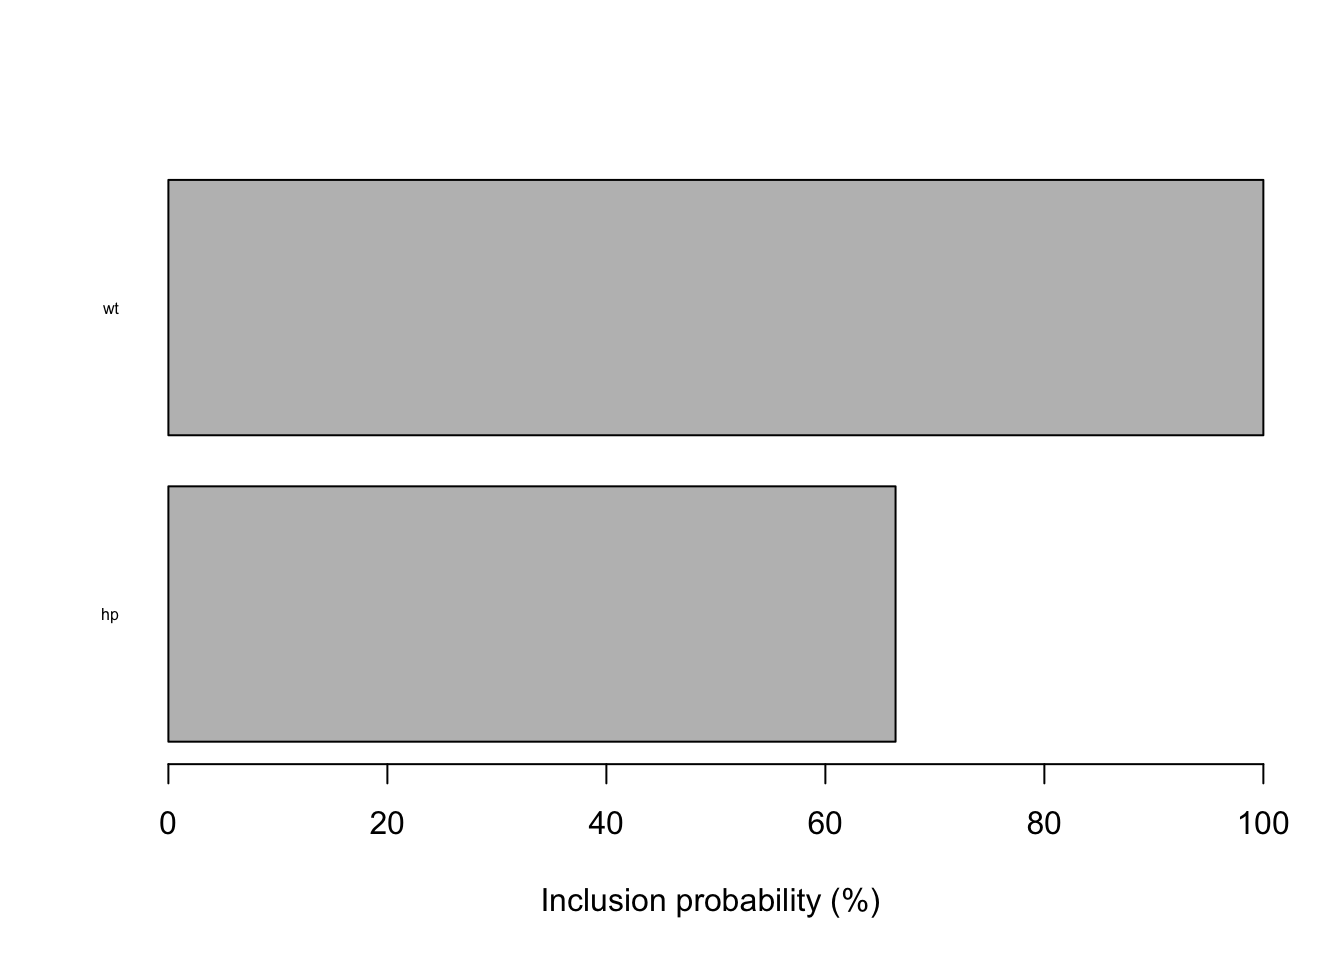
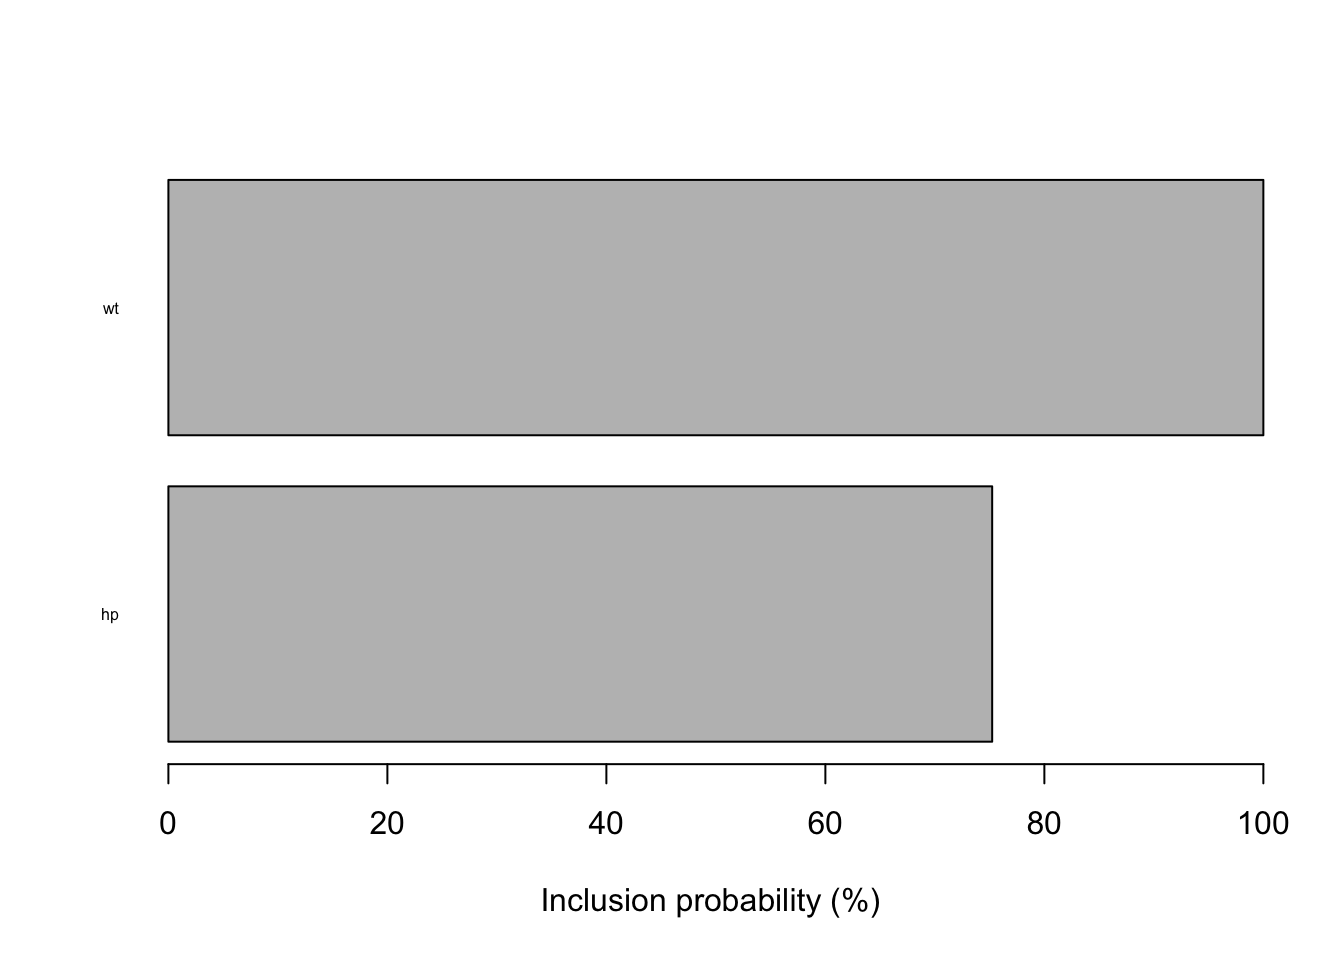
Add util functions into website

Changed region(s): [[0.6562, 0.5, 0.75, 0.7812]]

diff --git a/docs/articles/quickstart.html b/docs/articles/quickstart.html
@@ -131,22 +131,22 @@ mea_session &lt;-<span class="st"> </span><span class="dv">17</span>:<span class
 <p>If you hope to see details of those anomalies:</p>
 <div class="sourceCode"><pre class="sourceCode r"><code class="sourceCode r"><span class="kw"><a href="../reference/summarise_anomaly.html">summarise_anomaly</a></span>(.cbar, <span class="dt">.session =</span> <span class="st">"measurement"</span>)</code></pre></div>
 <pre><code>##               datetime     session    y point_pred lower_bound upper_bound
-## 1  2017-10-23 11:53:19 measurement 14.7   10.78358    6.143483    15.58287
-## 2  2017-10-23 11:54:19 measurement 32.4   24.75268   20.479201    28.81685
-## 3  2017-10-23 11:55:19 measurement 30.4   26.53384   21.106759    32.01673
-## 4  2017-10-23 11:56:19 measurement 33.9   25.70178   21.063648    30.37052
-## 5  2017-10-23 11:57:19 measurement 21.5   23.12496   18.901012    28.09847
-## 6  2017-10-23 11:58:19 measurement 15.5   17.62925   13.450514    21.91753
-## 7  2017-10-23 11:59:19 measurement 15.2   17.97975   13.956142    21.73321
-## 8  2017-10-23 12:00:19 measurement 13.3   14.24066    8.428793    19.33453
-## 9  2017-10-23 12:01:19 measurement 19.2   15.98603   11.659268    20.12914
-## 10 2017-10-23 12:02:19 measurement 27.3   25.34065   20.467165    30.08667
-## 11 2017-10-23 12:03:19 measurement 26.0   23.97144   19.157906    28.94530
-## 12 2017-10-23 12:04:19 measurement 30.4   24.81019   18.158970    30.63887
-## 13 2017-10-23 12:05:19 measurement 15.8   15.36513    7.550942    22.83930
-## 14 2017-10-23 12:06:19 measurement 19.7   19.38087   12.960239    24.81101
-## 15 2017-10-23 12:07:19 measurement 15.0   12.25816    2.129695    20.73411
-## 16 2017-10-23 12:08:19 measurement 21.4   22.00552   17.992760    26.61673
+## 1  2017-10-23 11:57:57 measurement 14.7   10.97548    6.356411    15.94858
+## 2  2017-10-23 11:58:57 measurement 32.4   24.74991   20.530531    29.38626
+## 3  2017-10-23 11:59:57 measurement 30.4   26.93936   21.655158    41.17835
+## 4  2017-10-23 12:00:57 measurement 33.9   25.72468   20.751510    31.14016
+## 5  2017-10-23 12:01:57 measurement 21.5   23.44197   18.656186    32.05812
+## 6  2017-10-23 12:02:57 measurement 15.5   17.45856   12.920333    21.59189
+## 7  2017-10-23 12:03:57 measurement 15.2   18.00819   13.696949    21.97175
+## 8  2017-10-23 12:04:57 measurement 13.3   14.47217    8.862853    20.57441
+## 9  2017-10-23 12:05:57 measurement 19.2   15.98521   11.589646    20.35926
+## 10 2017-10-23 12:06:57 measurement 27.3   25.29943   20.702220    29.99012
+## 11 2017-10-23 12:07:57 measurement 26.0   23.52828   16.786014    28.42930
+## 12 2017-10-23 12:08:57 measurement 30.4   23.89301    6.379521    30.85628
+## 13 2017-10-23 12:09:57 measurement 15.8   14.62143   -1.215653    23.10525
+## 14 2017-10-23 12:10:57 measurement 19.7   18.42955   -1.708063    24.94202
+## 15 2017-10-23 12:11:57 measurement 15.0   11.07934  -15.643002    20.32123
+## 16 2017-10-23 12:12:57 measurement 21.4   22.00993   17.671946    26.48306
 ##    anomaly
 ## 1    FALSE
 ## 2     TRUE
@@ -167,22 +167,22 @@ mea_session &lt;-<span class="st"> </span><span class="dv">17</span>:<span class
 <p>And if you rather want to check prediction performance:</p>
 <div class="sourceCode"><pre class="sourceCode r"><code class="sourceCode r"><span class="kw"><a href="../reference/summarise_pred_error.html">summarise_pred_error</a></span>(.cbar)</code></pre></div>
 <pre><code>##               datetime     session      diff       mape
-## 1  2017-10-23 11:53:19 measurement 3.9164185 0.26642302
-## 2  2017-10-23 11:54:19 measurement 7.6473215 0.23602844
-## 3  2017-10-23 11:55:19 measurement 3.8661593 0.12717629
-## 4  2017-10-23 11:56:19 measurement 8.1982203 0.24183541
-## 5  2017-10-23 11:57:19 measurement 1.6249569 0.07557939
-## 6  2017-10-23 11:58:19 measurement 2.1292457 0.13737069
-## 7  2017-10-23 11:59:19 measurement 2.7797510 0.18287835
-## 8  2017-10-23 12:00:19 measurement 0.9406580 0.07072617
-## 9  2017-10-23 12:01:19 measurement 3.2139670 0.16739411
-## 10 2017-10-23 12:02:19 measurement 1.9593490 0.07177103
-## 11 2017-10-23 12:03:19 measurement 2.0285607 0.07802157
-## 12 2017-10-23 12:04:19 measurement 5.5898147 0.18387548
-## 13 2017-10-23 12:05:19 measurement 0.4348719 0.02752354
-## 14 2017-10-23 12:06:19 measurement 0.3191254 0.01619926
-## 15 2017-10-23 12:07:19 measurement 2.7418431 0.18278954
-## 16 2017-10-23 12:08:19 measurement 0.6055165 0.02829516</code></pre>
+## 1  2017-10-23 11:57:57 measurement 3.7245168 0.25336849
+## 2  2017-10-23 11:58:57 measurement 7.6500870 0.23611380
+## 3  2017-10-23 11:59:57 measurement 3.4606439 0.11383697
+## 4  2017-10-23 12:00:57 measurement 8.1753166 0.24115978
+## 5  2017-10-23 12:01:57 measurement 1.9419658 0.09032399
+## 6  2017-10-23 12:02:57 measurement 1.9585596 0.12635868
+## 7  2017-10-23 12:03:57 measurement 2.8081939 0.18474960
+## 8  2017-10-23 12:04:57 measurement 1.1721702 0.08813310
+## 9  2017-10-23 12:05:57 measurement 3.2147939 0.16743718
+## 10 2017-10-23 12:06:57 measurement 2.0005738 0.07328109
+## 11 2017-10-23 12:07:57 measurement 2.4717151 0.09506597
+## 12 2017-10-23 12:08:57 measurement 6.5069945 0.21404587
+## 13 2017-10-23 12:09:57 measurement 1.1785677 0.07459289
+## 14 2017-10-23 12:10:57 measurement 1.2704532 0.06449001
+## 15 2017-10-23 12:11:57 measurement 3.9206634 0.26137756
+## 16 2017-10-23 12:12:57 measurement 0.6099254 0.02850119</code></pre>
 <p>to visualise:</p>
 <div class="sourceCode"><pre class="sourceCode r"><code class="sourceCode r"><span class="kw"><a href="../reference/plot_error.html">plot_error</a></span>(.cbar, <span class="dt">method =</span> <span class="st">"mape"</span>)</code></pre></div>
 <p><img src="quickstart_files/figure-html/unnamed-chunk-11-1.png" width="672"></p>
@@ -194,7 +194,7 @@ mea_session &lt;-<span class="st"> </span><span class="dv">17</span>:<span class
 <p>To see those indicators:</p>
 <div class="sourceCode"><pre class="sourceCode r"><code class="sourceCode r"><span class="kw"><a href="../reference/summarise_incprob.html">summarise_incprob</a></span>(.cbar)</code></pre></div>
 <pre><code>##        hp        wt 
-## 0.6641003 1.0000000</code></pre>
+## 0.7523384 1.0000000</code></pre>
 <p>to visualise:</p>
 <div class="sourceCode"><pre class="sourceCode r"><code class="sourceCode r"><span class="kw"><a href="../reference/plot_incprob.html">plot_incprob</a></span>(.cbar)</code></pre></div>
 <p><img src="quickstart_files/figure-html/unnamed-chunk-13-1.png" width="672"></p>

diff --git a/docs/reference/index.html b/docs/reference/index.html
@@ -184,6 +184,26 @@
           </td>
           <td><p>Summarise inclusion probability of model</p></td>
         </tr>
+      </tbody><tbody>
+        <tr>
+          <th colspan="2">
+            <h2 id="section-util" class="hasAnchor"><a href="#section-util" class="anchor"></a>util</h2>
+            <p class="section-desc"></p>
+          </th>
+        </tr>
+        <tr>
+          <!--  -->
+          <td>
+            <p><code><a href="standardized.html">standardized</a></code> </p>
+          </td>
+          <td><p>Standardize a vector</p></td>
+        </tr><tr>
+          <!--  -->
+          <td>
+            <p><code><a href="destandardized.html">destandardized</a></code> </p>
+          </td>
+          <td><p>Destandardize a vector</p></td>
+        </tr>
       </tbody>
       </table>
     </div>
@@ -195,6 +215,7 @@
       <li><a href="#section-cbar">cbar</a></li>
       <li><a href="#section-plot">plot</a></li>
       <li><a href="#section-summarise">summarise</a></li>
+      <li><a href="#section-util">util</a></li>
     </ul>
   </div>
 </div>

diff --git a/docs/reference/destandardized.html b/docs/reference/destandardized.html
@@ -6,7 +6,7 @@
 <meta http-equiv="X-UA-Compatible" content="IE=edge">
 <meta name="viewport" content="width=device-width, initial-scale=1.0">
 
-<title>Destandardized a vector — destandardized • cbar</title>
+<title>Destandardize a vector — destandardized • cbar</title>
 
 <!-- jquery -->
 <script src="https://code.jquery.com/jquery-3.1.0.min.js" integrity="sha384-nrOSfDHtoPMzJHjVTdCopGqIqeYETSXhZDFyniQ8ZHcVy08QesyHcnOUpMpqnmWq" crossorigin="anonymous"></script>
@@ -92,11 +92,11 @@
       <div class="row">
   <div class="col-md-9 contents">
     <div class="page-header">
-    <h1>Destandardized a vector</h1>
+    <h1>Destandardize a vector</h1>
     </div>
 
     
-    <p>Destandardized a vector</p>
+    <p>Destandardize a vector</p>
     
 
     <pre class="usage"><span class='fu'>destandardized</span>(<span class='no'>y_hat</span>, <span class='no'>y_mu</span>, <span class='no'>y_sd</span>)</pre>

diff --git a/docs/reference/standardized.html b/docs/reference/standardized.html
@@ -6,7 +6,7 @@
 <meta http-equiv="X-UA-Compatible" content="IE=edge">
 <meta name="viewport" content="width=device-width, initial-scale=1.0">
 
-<title>Standardized a vector — standardized • cbar</title>
+<title>Standardize a vector — standardized • cbar</title>
 
 <!-- jquery -->
 <script src="https://code.jquery.com/jquery-3.1.0.min.js" integrity="sha384-nrOSfDHtoPMzJHjVTdCopGqIqeYETSXhZDFyniQ8ZHcVy08QesyHcnOUpMpqnmWq" crossorigin="anonymous"></script>
@@ -92,11 +92,11 @@
       <div class="row">
   <div class="col-md-9 contents">
     <div class="page-header">
-    <h1>Standardized a vector</h1>
+    <h1>Standardize a vector</h1>
     </div>
 
     
-    <p>Standardized a vector</p>
+    <p>Standardize a vector</p>
     
 
     <pre class="usage"><span class='fu'>standardized</span>(<span class='no'>y</span>)</pre>
